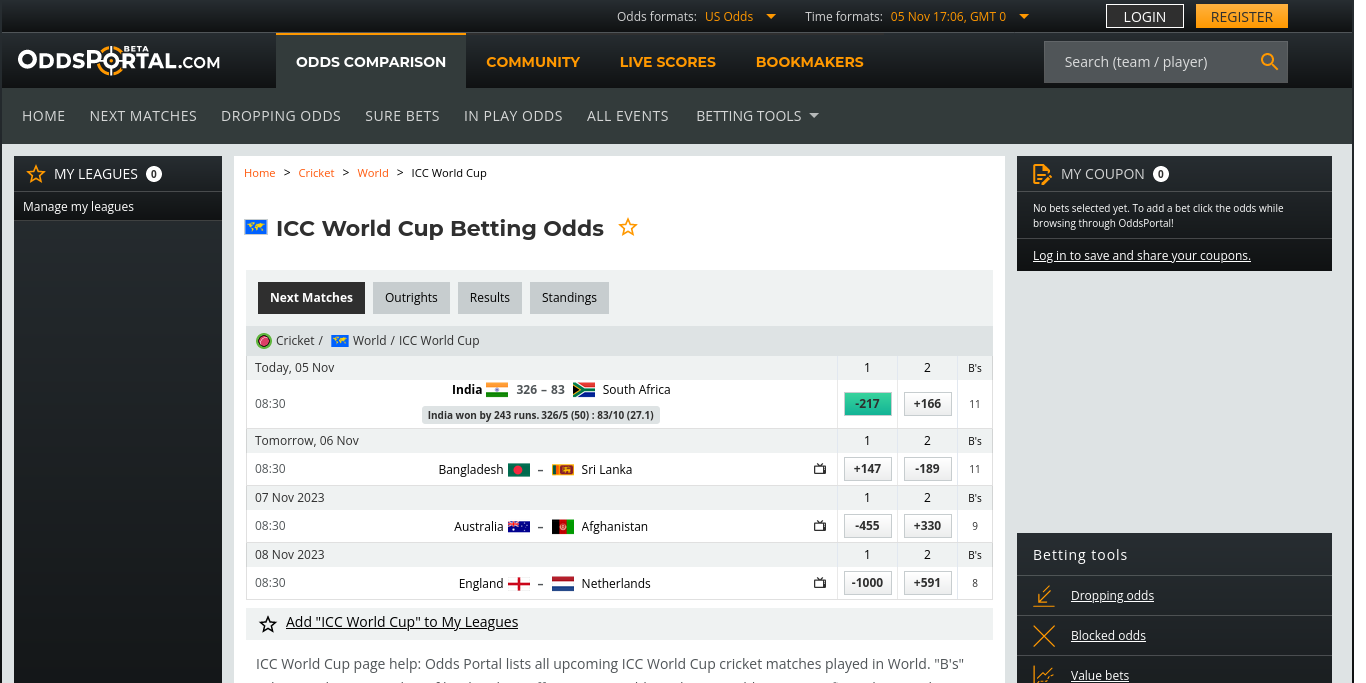
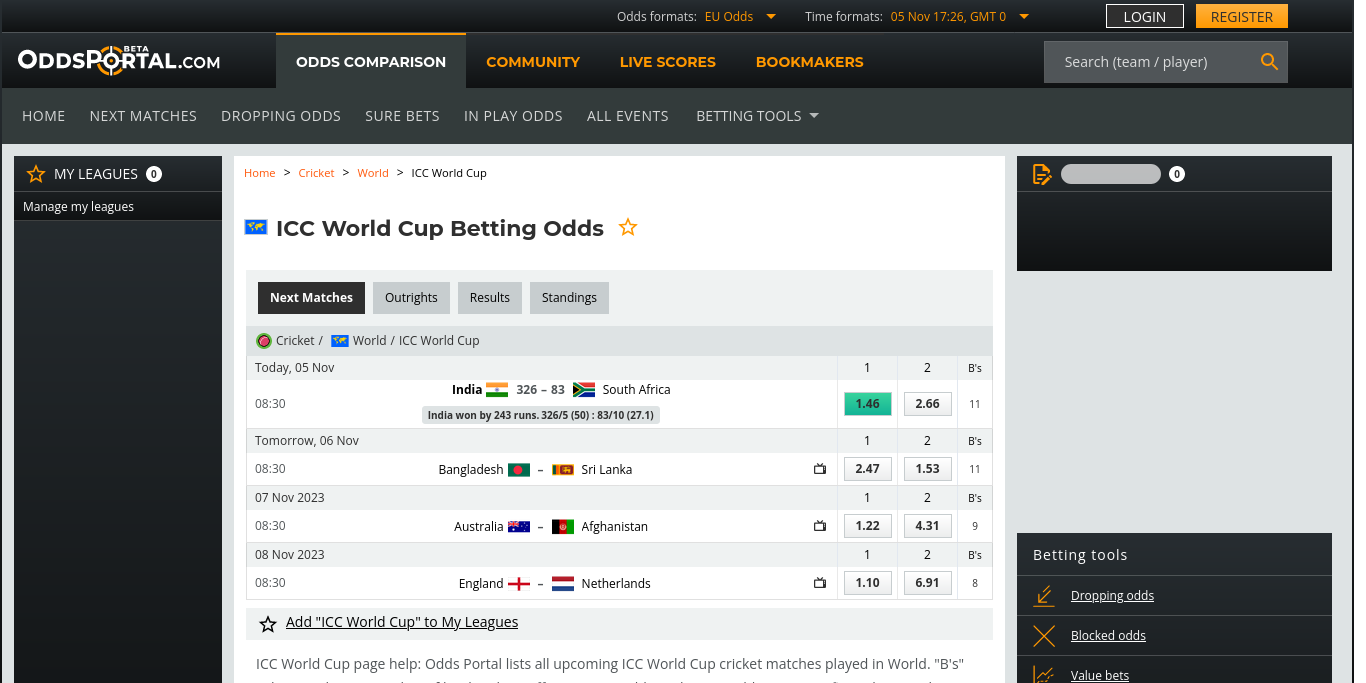
Update Data Sun Nov  5 17:26:36 UTC 2023

diff --git a/src/nonview/data/TEAM1_ID_TO_TEAM2_ID_TO_ODDS_PAIR.js b/src/nonview/data/TEAM1_ID_TO_TEAM2_ID_TO_ODDS_PAIR.js
@@ -1,6 +1,6 @@
 // Auto Generated by UpdateTeam1IDToTeam2IDToOddsPair
 // https://www.oddsportal.com/cricket/world/icc-world-cup/
-// 2023-11-05 22:36:30 +0000
+// 2023-11-05 22:56:29 +0000
 
 import { TEAM } from "../core/Team.js";
 
@@ -12,7 +12,7 @@ export const TEAM1_ID_TO_TEAM2_ID_TO_ODDS_PAIR = {
     [TEAM.BGD.id]: [1.53, 2.47],
   },
   [TEAM.AUS.id]: {
-    [TEAM.AFG.id]: [1.22, 4.30],
+    [TEAM.AFG.id]: [1.22, 4.31],
   },
   [TEAM.ENG.id]: {
     [TEAM.NLD.id]: [1.10, 6.91],

diff --git a/src/nonview/constants/VERSION.js b/src/nonview/constants/VERSION.js
@@ -1,4 +1,4 @@
 // Auto-generated by javascript_version.py
-export const VERSION_UT = 1699203996;
+export const VERSION_UT = 1699205196;
 export const VERSION_DATETIME = new Date(VERSION_UT * 1_000);
 export const LAST_COMMIT_MESSAGE = "Updated 📊Data";

diff --git a/src/nonview/data/ODI_ID_TO_WINNER.js b/src/nonview/data/ODI_ID_TO_WINNER.js
@@ -1,6 +1,6 @@
 // Auto Generated by UpdateODIIDToWinner
 // https://www.cricbuzz.com/cricket-series/6732/icc-cricket-world-cup-2023/matches
-// 2023-11-05 22:36:10 +0000
+// 2023-11-05 22:56:11 +0000
 
 import { TEAM } from "../core/Team.js";
 

diff --git a/src/nonview/data/POINTS_TABLE.js b/src/nonview/data/POINTS_TABLE.js
@@ -1,6 +1,6 @@
 // Auto Generated by UpdatePointsTable
 // https://www.cricketworldcup.com/standings
-// 2023-11-05 22:36:20 +0000
+// 2023-11-05 22:56:21 +0000
 
 import { TEAM } from "../core/Team.js";
 
